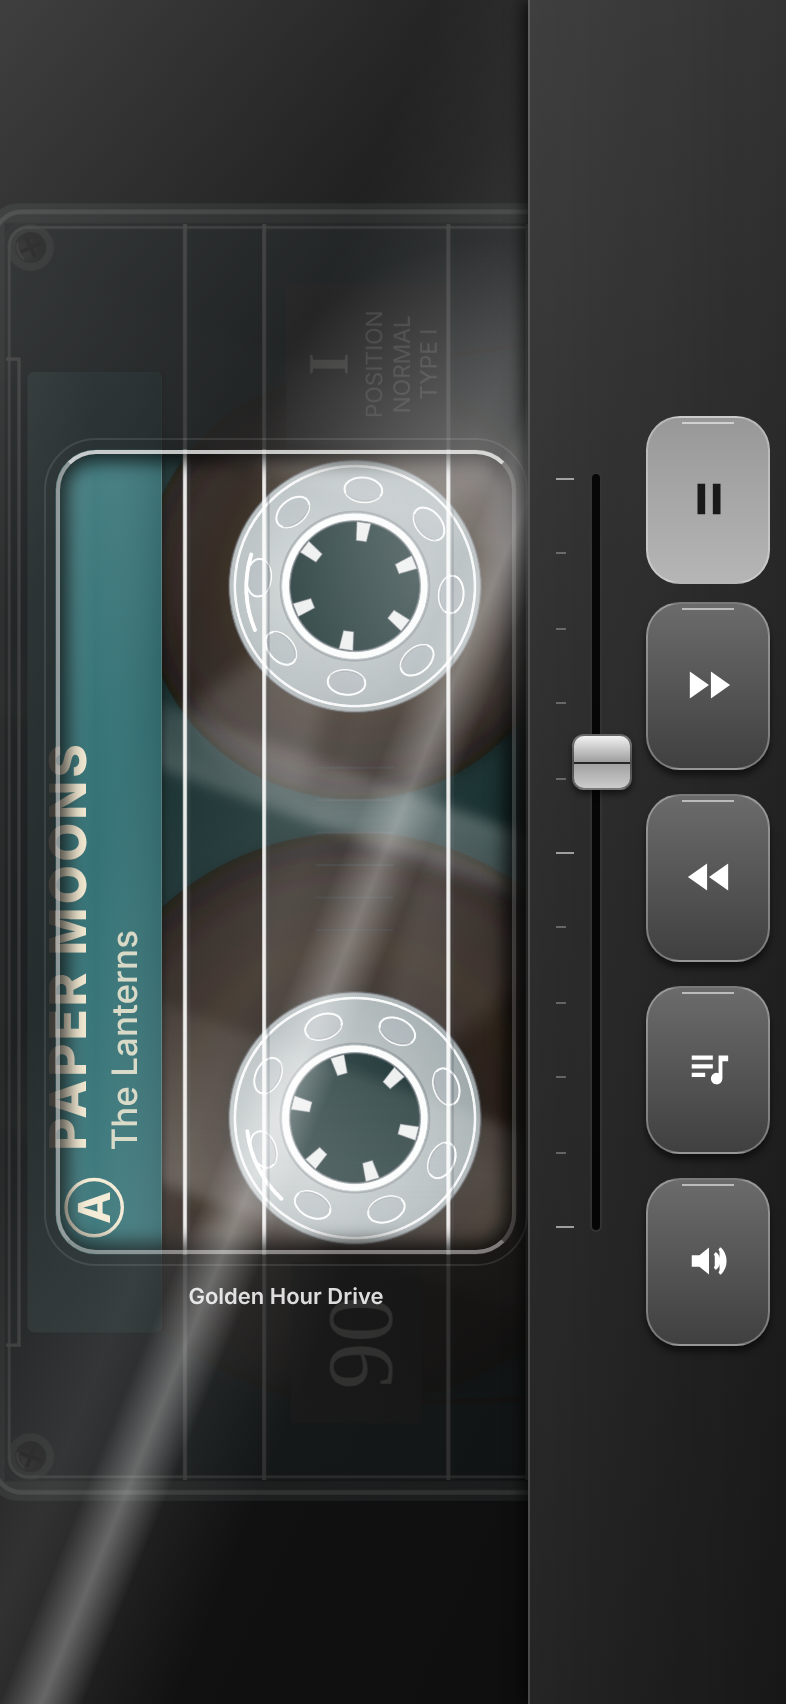
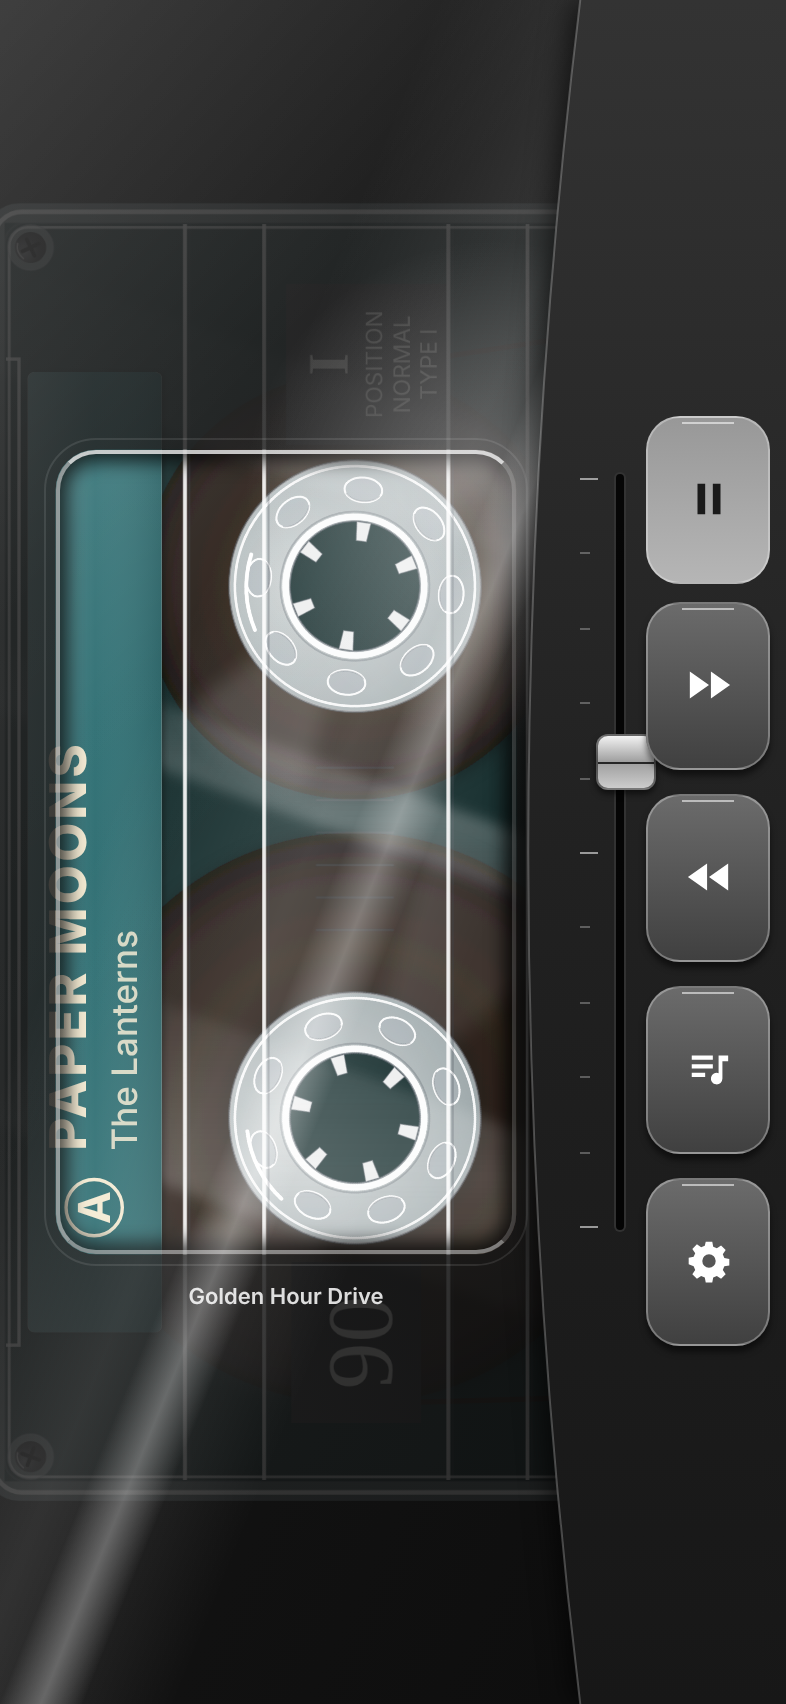
Curve the solid panel, move the fader right, replace mute with settings
The panel's inner edge bows toward the tape window. The last key opens a
settings screen with switches for tape deck sounds and haptics.

Claude-Session: https://claude.ai/code/session_015CNmSEpanpmujmbPK8yXHv

diff --git a/TapeDeck/DeckView.swift b/TapeDeck/DeckView.swift
@@ -13,8 +13,9 @@ import SwiftUI
 /// get a strip of their own inside the safe area.
 struct DeckView: View {
     @EnvironmentObject private var model: PlayerModel
-    /// Shared by the fader beside the window and the mute key in the column.
+    /// The phone's volume, which the fader on the panel sets.
     @StateObject private var volume = SystemVolume()
+    @State private var showSettings = false
     var openShelf: () -> Void
 
     /// Width of the key column on phones that have no side rail.
@@ -86,9 +87,12 @@ struct DeckView: View {
             .overlay(alignment: .topLeading) {
                 VolumeFader(volume: volume)
                     .frame(width: 40, height: window.height)
-                    .offset(x: railLeading ? panelWidth - 54 : full.width - panelWidth + 14, y: window.minY)
+                    .offset(x: railLeading ? panelWidth - 66 : full.width - panelWidth + 26, y: window.minY)
             }
             .ignoresSafeArea()
+        }
+        .sheet(isPresented: $showSettings) {
+            SettingsView()
         }
     }
 
@@ -237,18 +241,16 @@ struct DeckView: View {
     // MARK: Keys
 
     /// Five keys of one size: play/pause, fast forward, rewind, the tape
-    /// library, and mute.
+    /// library, and settings.
     private func keys(height: CGFloat) -> some View {
         VStack(spacing: keyGap) {
             TransportKeys(vertical: true, keyHeight: height, bare: true, big: true,
                           spacing: keyGap, onEject: openShelf)
-            TapeKey(symbol: volume.isMuted ? "speaker.slash.fill" : "speaker.wave.2.fill",
-                    label: volume.isMuted ? "Unmute" : "Mute",
-                    latched: volume.isMuted,
+            TapeKey(symbol: "gearshape.fill", label: "Settings",
                     height: height, showsLabel: false, corner: 17, symbolSize: 23,
                     onDown: {
                         Haptics.keyDown()
-                        volume.toggleMute()
+                        showSettings = true
                     })
         }
     }
@@ -261,13 +263,16 @@ struct DeckView: View {
     /// solid plastic, not see through, with a seam where it meets the clear
     /// part of the case.
     private func casePanel(seamOnLeading: Bool) -> some View {
-        ZStack(alignment: seamOnLeading ? .leading : .trailing) {
-            LinearGradient(colors: [Color(white: 0.20), Color(white: 0.13), Color(white: 0.09)],
-                           startPoint: .top, endPoint: .bottom)
-            LinearGradient(colors: [Color.white.opacity(0.06), .clear],
-                           startPoint: seamOnLeading ? .leading : .trailing,
-                           endPoint: seamOnLeading ? .trailing : .leading)
-            Color.white.opacity(0.22).frame(width: 1)
+        let edge = BowedPanel(bow: 26, bowOnLeading: seamOnLeading)
+        return ZStack {
+            edge.fill(LinearGradient(colors: [Color(white: 0.20), Color(white: 0.13), Color(white: 0.09)],
+                                     startPoint: .top, endPoint: .bottom))
+            edge.fill(LinearGradient(colors: [Color.white.opacity(0.07), .clear],
+                                     startPoint: seamOnLeading ? .leading : .trailing,
+                                     endPoint: .center))
+            // The seam, following the curve
+            BowedPanel(bow: 26, bowOnLeading: seamOnLeading, edgeOnly: true)
+                .stroke(Color.white.opacity(0.24), lineWidth: 1)
         }
         .shadow(color: .black.opacity(0.65), radius: 7, x: seamOnLeading ? -3 : 3)
     }
@@ -307,6 +312,34 @@ struct DeckView: View {
             }
             .frame(width: stripWidth + insets.trailing)
         }
+    }
+}
+
+/// The solid side of the case. Its inner edge is a long shallow curve that
+/// bows toward the tape at mid height and falls back at the top and bottom.
+struct BowedPanel: Shape {
+    /// How far the ends of the edge sit back from its furthest point.
+    var bow: CGFloat
+    var bowOnLeading: Bool
+    /// Just the curved edge, for drawing the seam.
+    var edgeOnly = false
+
+    func path(in rect: CGRect) -> Path {
+        var path = Path()
+        // A quadratic curve passes a quarter of the way to its control
+        // point from the chord, so the control sits a full bow beyond the rect.
+        let ends = bowOnLeading ? rect.minX + bow : rect.maxX - bow
+        let pull = bowOnLeading ? rect.minX - bow : rect.maxX + bow
+        let far = bowOnLeading ? rect.maxX : rect.minX
+        path.move(to: CGPoint(x: ends, y: rect.minY))
+        path.addQuadCurve(to: CGPoint(x: ends, y: rect.maxY),
+                          control: CGPoint(x: pull, y: rect.midY))
+        if !edgeOnly {
+            path.addLine(to: CGPoint(x: far, y: rect.maxY))
+            path.addLine(to: CGPoint(x: far, y: rect.minY))
+            path.closeSubpath()
+        }
+        return path
     }
 }
 

diff --git a/TapeDeck/SettingsView.swift b/TapeDeck/SettingsView.swift
@@ -1,0 +1,35 @@
+import SwiftUI
+
+/// The few things worth switching, and a reminder of how the deck works.
+struct SettingsView: View {
+    @EnvironmentObject private var model: PlayerModel
+    @Environment(\.dismiss) private var dismiss
+    @AppStorage(Haptics.settingKey) private var hapticsOn = true
+
+    var body: some View {
+        NavigationStack {
+            Form {
+                Section {
+                    Toggle("Tape deck sounds", isOn: $model.soundEffectsOn)
+                    Toggle("Haptics", isOn: $hapticsOn)
+                } footer: {
+                    Text("Sounds are the key clunks, the door, tape hiss and the motor while winding. They play over the music and are not silenced by the mute switch.")
+                }
+
+                Section("How the deck works") {
+                    Label("Double-tap the tape to turn it over.", systemImage: "arrow.triangle.2.circlepath")
+                    Label("Tap fast forward or rewind to skip a song. Hold to wind the tape.", systemImage: "forward.fill")
+                    Label("When a side runs out the music stops. Flip the tape to carry on.", systemImage: "stop.circle")
+                    Label("Open the phone to choose a tape, then close it to start playing.", systemImage: "rectangle.portrait.on.rectangle.portrait")
+                }
+            }
+            .navigationTitle("Settings")
+            .navigationBarTitleDisplayMode(.inline)
+            .toolbar {
+                ToolbarItem(placement: .confirmationAction) {
+                    Button("Done") { dismiss() }
+                }
+            }
+        }
+    }
+}

diff --git a/TapeDeck/Haptics.swift b/TapeDeck/Haptics.swift
@@ -9,6 +9,12 @@ enum Haptics {
     private static let heavy = UIImpactFeedbackGenerator(style: .heavy)
     private static let soft = UIImpactFeedbackGenerator(style: .soft)
 
+    /// Where the on/off setting is kept. Settings writes it; this reads it.
+    static let settingKey = "hapticsOn"
+    private static var on: Bool {
+        UserDefaults.standard.object(forKey: settingKey) as? Bool ?? true
+    }
+
     /// Wakes the haptic engine so the first tap is not late.
     static func warmUp() {
         rigid.prepare()
@@ -18,33 +24,39 @@ enum Haptics {
 
     /// A key driven down to its latch.
     static func keyDown() {
+        guard on else { return }
         rigid.impactOccurred(intensity: 1.0)
         light.prepare()
     }
 
     /// A key springing back up.
     static func keyUp() {
+        guard on else { return }
         light.impactOccurred(intensity: 0.7)
         rigid.prepare()
     }
 
     /// The cassette door opening or shutting.
     static func door() {
+        guard on else { return }
         heavy.impactOccurred(intensity: 1.0)
     }
 
     /// The cassette dropping into place.
     static func seat() {
+        guard on else { return }
         rigid.impactOccurred(intensity: 0.6)
     }
 
     /// One notch of the volume fader.
     static func detent() {
+        guard on else { return }
         light.impactOccurred(intensity: 0.4)
     }
 
     /// One beat of the motor while the tape winds.
     static func windTick() {
+        guard on else { return }
         soft.impactOccurred(intensity: 0.45)
     }
 }

diff --git a/README.md b/README.md
@@ -6,7 +6,7 @@ A cassette player for Apple Music. Your playlists and albums are tapes on a shel
 
 * Plays your Apple Music library and anything from the Apple Music catalogue (MusicKit).
 * Closed phone (or any ordinary phone screen): the whole screen is the body of a tape player with the cassette inside it. The cassette is as large as the screen allows and runs underneath the body and the keys. The smoked casing covers most of it, dimly showing what is underneath, and a clear window over the label and reels shows the tape itself. Colours are neutral throughout: greys, black and off-white. Glare on the body moves only when the phone moves: reflections slide as it tilts left and right, and a hot spot follows both tilts.
-* Built for the iPhone Duo's outer display, 466 x 678 points. iOS reserves an 84 point column down one side for the camera, clock and status icons; five large keys (play/pause, fast forward, rewind, tape library, mute) sit in that column underneath them, on a solid plastic panel that is not see-through. There is no stop key: pause stops the music and keeps your place. On other phones the keys get their own strip. The solid panel starts just past the tape window, and a vertical volume fader stands on it beside the keys, exactly as tall as the window. It sets the phone's volume and follows the side buttons.
+* Built for the iPhone Duo's outer display, 466 x 678 points. iOS reserves an 84 point column down one side for the camera, clock and status icons; five large keys (play/pause, fast forward, rewind, tape library, settings) sit in that column underneath them, on a solid plastic panel that is not see-through. There is no stop key: pause stops the music and keeps your place. On other phones the keys get their own strip. The solid panel's inner edge is a shallow curve that comes closest to the tape window at mid height. A vertical volume fader stands on the panel beside the keys, exactly as tall as the window. Settings has switches for the tape deck sounds and the haptics. It sets the phone's volume and follows the side buttons.
 * Haptics: a firm tap when a key goes down, a lighter one when it springs back, a heavy thud for the cassette door, and a soft pulse four times a second while the tape winds.
 * The cassette is a clear one. The shell front is see-through artwork (bright moulded edges and ridges, stickers, a stick-on paper label, guide rollers, black screws, reflections). Under it the whole reels, their clear hubs, the tape running down to the rollers and the handwriting on the label are drawn live. The artwork source is `tools/cassette-art.html`; `node tools/render-art.js` re-renders it.
 * Open phone (a large, wide screen): the tape shelf on the left and the chosen tape on the right. The shelf shows each playlist and album as a cassette spine: an off-white card with the name handwritten on it and a grey band. Pick a tape, then close the phone to start it playing. The keys are there too, for screens that cannot fold.
@@ -53,6 +53,7 @@ These came from developer write-ups, not from a device, so check them in Xcode's
 | `OpenTrayView.swift` | The open phone's right half, where the chosen tape waits |
 | `GlassShimmer.swift` | The glare on the case, driven by the motion sensor |
 | `Haptics.swift` | The taps for keys, door, fader and winding |
+| `SettingsView.swift` | Switches for sounds and haptics, and how the deck works |
 | `VolumeFader.swift` | The vertical volume fader and its link to the system volume |
 | `ShelfView.swift` | The tape shelf and search |
 | `LockScreenTape.swift` | Starts and updates the lock screen Live Activity |
